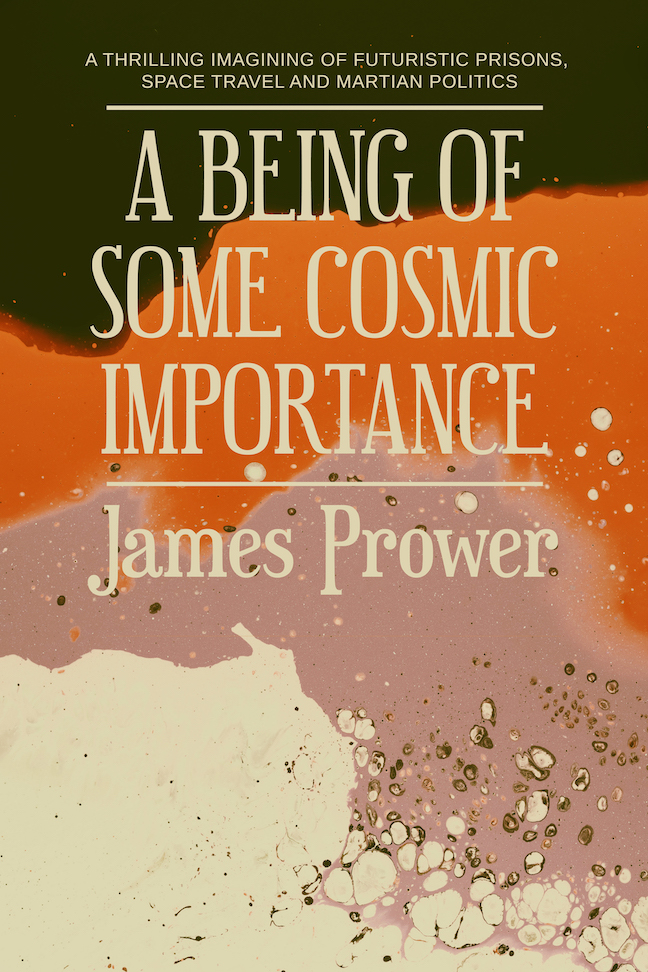
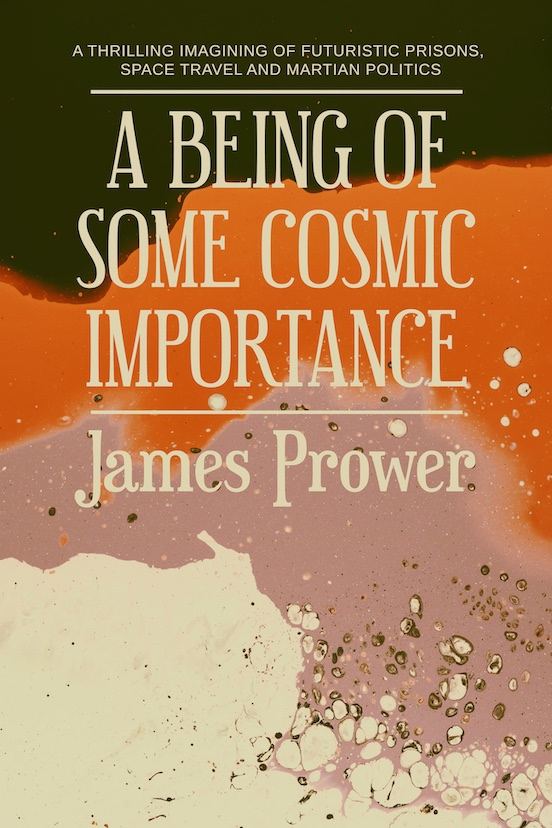
chore: adjust quality of ABOSCI image, adjust drop shadow, remove short story dabbler from biography.

diff --git a/src/views/biography/src/Biography.js b/src/views/biography/src/Biography.js
@@ -19,9 +19,7 @@ function Biography({ image }) {
             <Heading children="Portals and invisible places" size={700} />
             <Text size={400} color="text">
               James Prower is a Canadian author of sci-fi, fantasy, and
-              supernatural fiction, specializing in short stories and novels,
-              though he also dabbles in poetry. He’s currently on the science
-              fiction short-story submission circuit.
+              supernatural fiction, specializing in short stories and novels.
               <br />
               <br />
               Prower's saga of novels—beginning with{" "}

diff --git a/src/views/library/src/Library.js b/src/views/library/src/Library.js
@@ -56,7 +56,7 @@ const Library = ({ title, genre, cover, synopsis, buttons }) => {
                 loading="eager"
                 style={{
                   borderRadius: "6px",
-                  boxShadow: "0px 8px 20px grey",
+                  boxShadow: "0px 6px 16px grey",
                 }}
               />
             </Flex>

diff --git a/src/pages/index.js b/src/pages/index.js
@@ -77,7 +77,7 @@ const IMAGE_QUERY = graphql`
   {
     cosmicCover: file(relativePath: { eq: "ABOSCI_Cover.jpg" }) {
       childImageSharp {
-        fixed(width: 276, height: 412, quality: 75) {
+        fixed(width: 552, height: 828, quality: 85) {
           ...GatsbyImageSharpFixed
         }
       }
